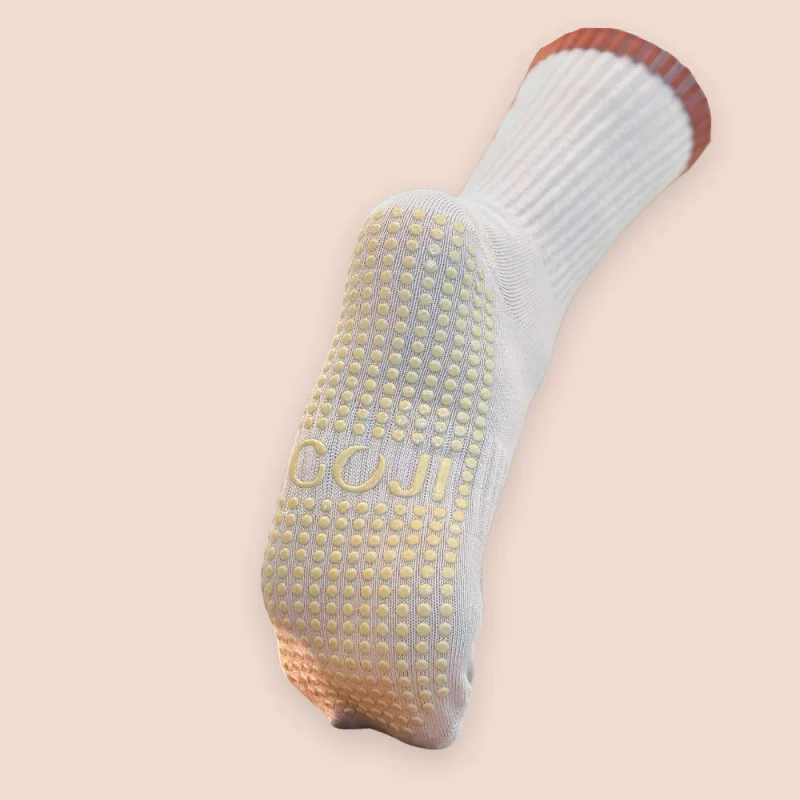
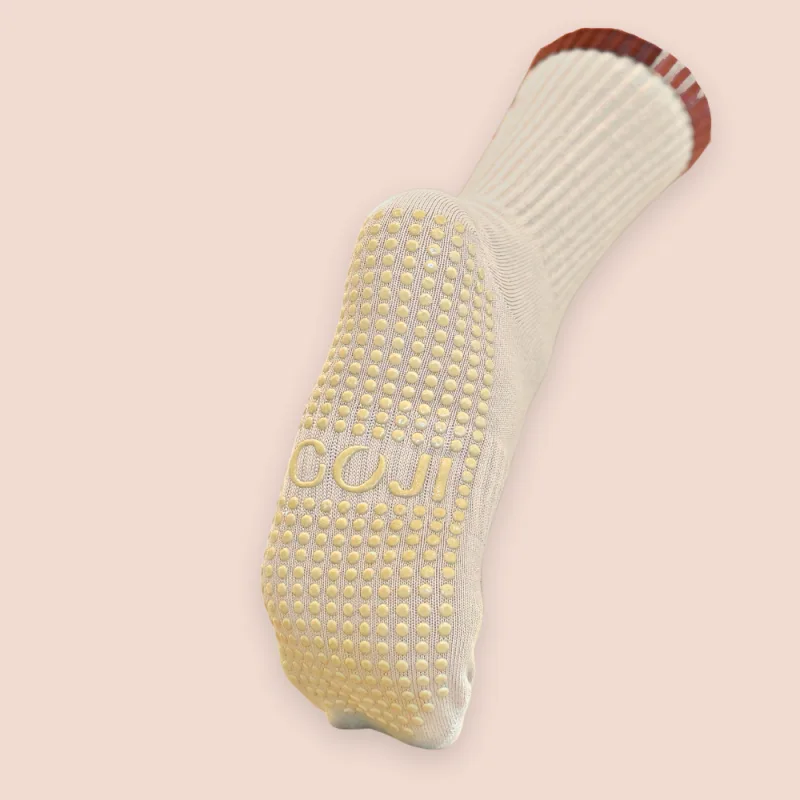
Shop: even studio light on all sock photos, oat Goji Gang
Relit the side and sole shots again: light is now measured separately on
knit and grip dots, so the warm glare on the big-toe side is removed, and
the sole cuffs are matched to the side-shot cuffs. Heroes re-rendered with
shadowless light; Goji Gang knit recoloured to oat (confirmed by owner)
across all three shots, and the copy says oat again.

diff --git a/marketing/website/src/lib/shop.ts b/marketing/website/src/lib/shop.ts
@@ -81,9 +81,9 @@ export const SHOP: ShopCollection[] = [
         detail: "One pair, collect at the clinic",
         status: "buy",
         blurb:
-          "Two berries, one pair of sunglasses, and absolutely no plans to skip leg day. The Goji Gang roll deep on a stone rib-knit sock with a cocoa cuff. Go grip and the sole spells out GOJI, so even your footprints are on brand.",
+          "Two berries, one pair of sunglasses, and absolutely no plans to skip leg day. The Goji Gang roll deep on an oat rib-knit sock with a cocoa cuff. Go grip and the sole spells out GOJI, so even your footprints are on brand.",
         photos: [
-          { src: "/photos/shop/socks-gang-art.webp", alt: "A pair of Goji Gang socks: stone rib-knit with a brown cuff and two embroidered goji berries, one in sunglasses." },
+          { src: "/photos/shop/socks-gang-art.webp", alt: "A pair of Goji Gang socks: oat rib-knit with a brown cuff and two embroidered goji berries, one in sunglasses." },
           { src: "/photos/shop/socks-gang-front.webp", alt: "A Goji Gang sock from the side, showing the two embroidered berries on the cuff." },
           { src: "/photos/shop/socks-gang-sole.webp", alt: "The grip sole of a Goji Gang sock, covered in grip dots with GOJI spelt out across the middle." },
         ],
